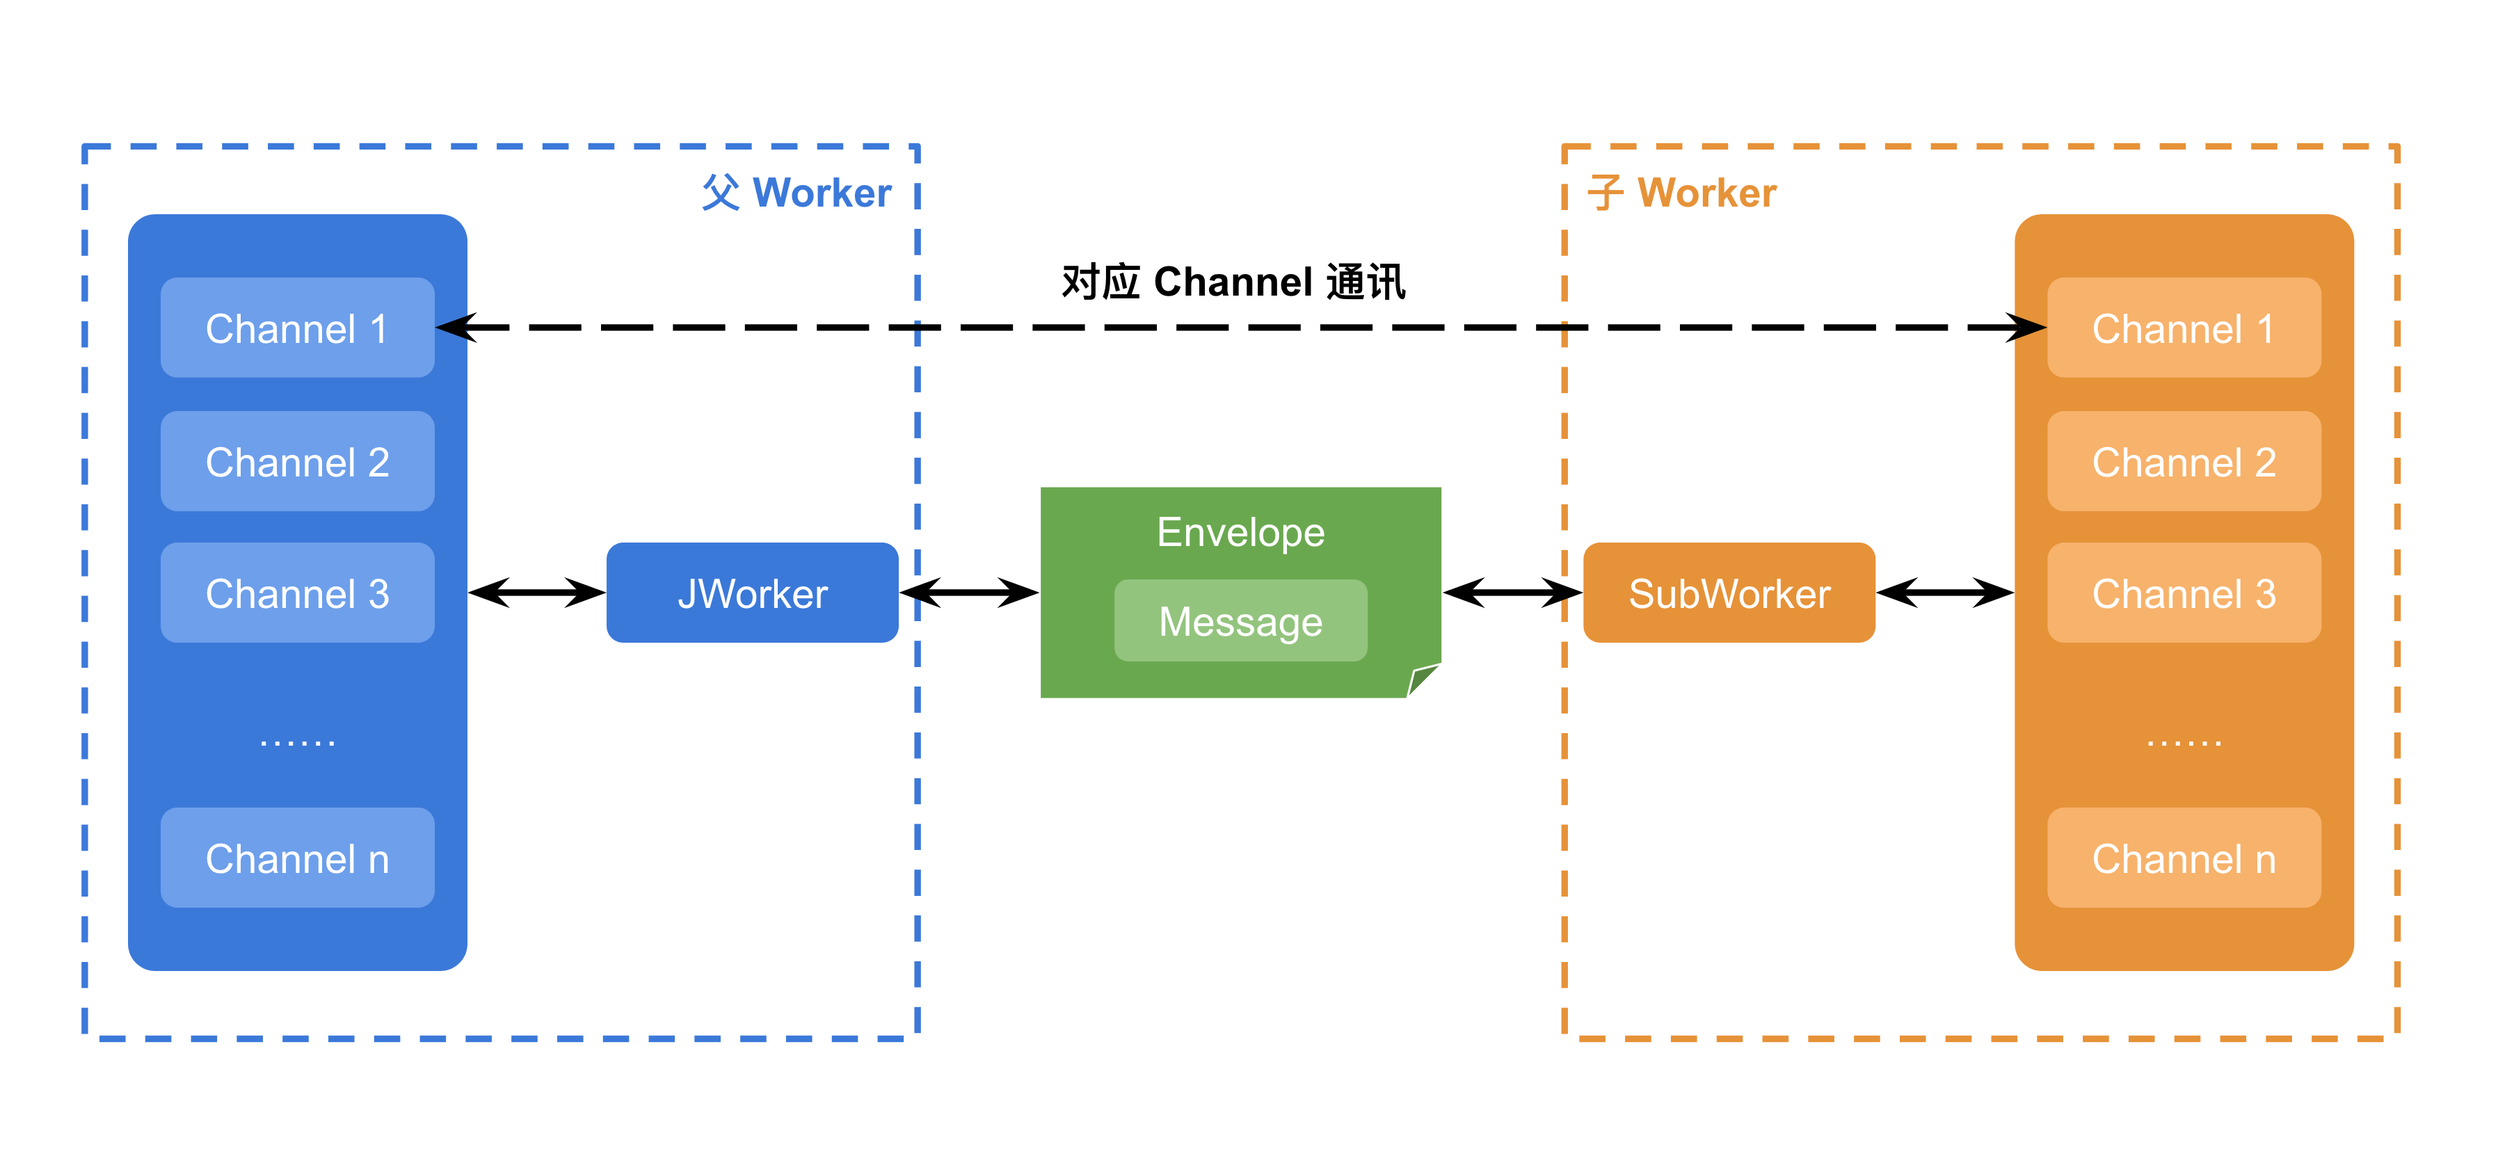
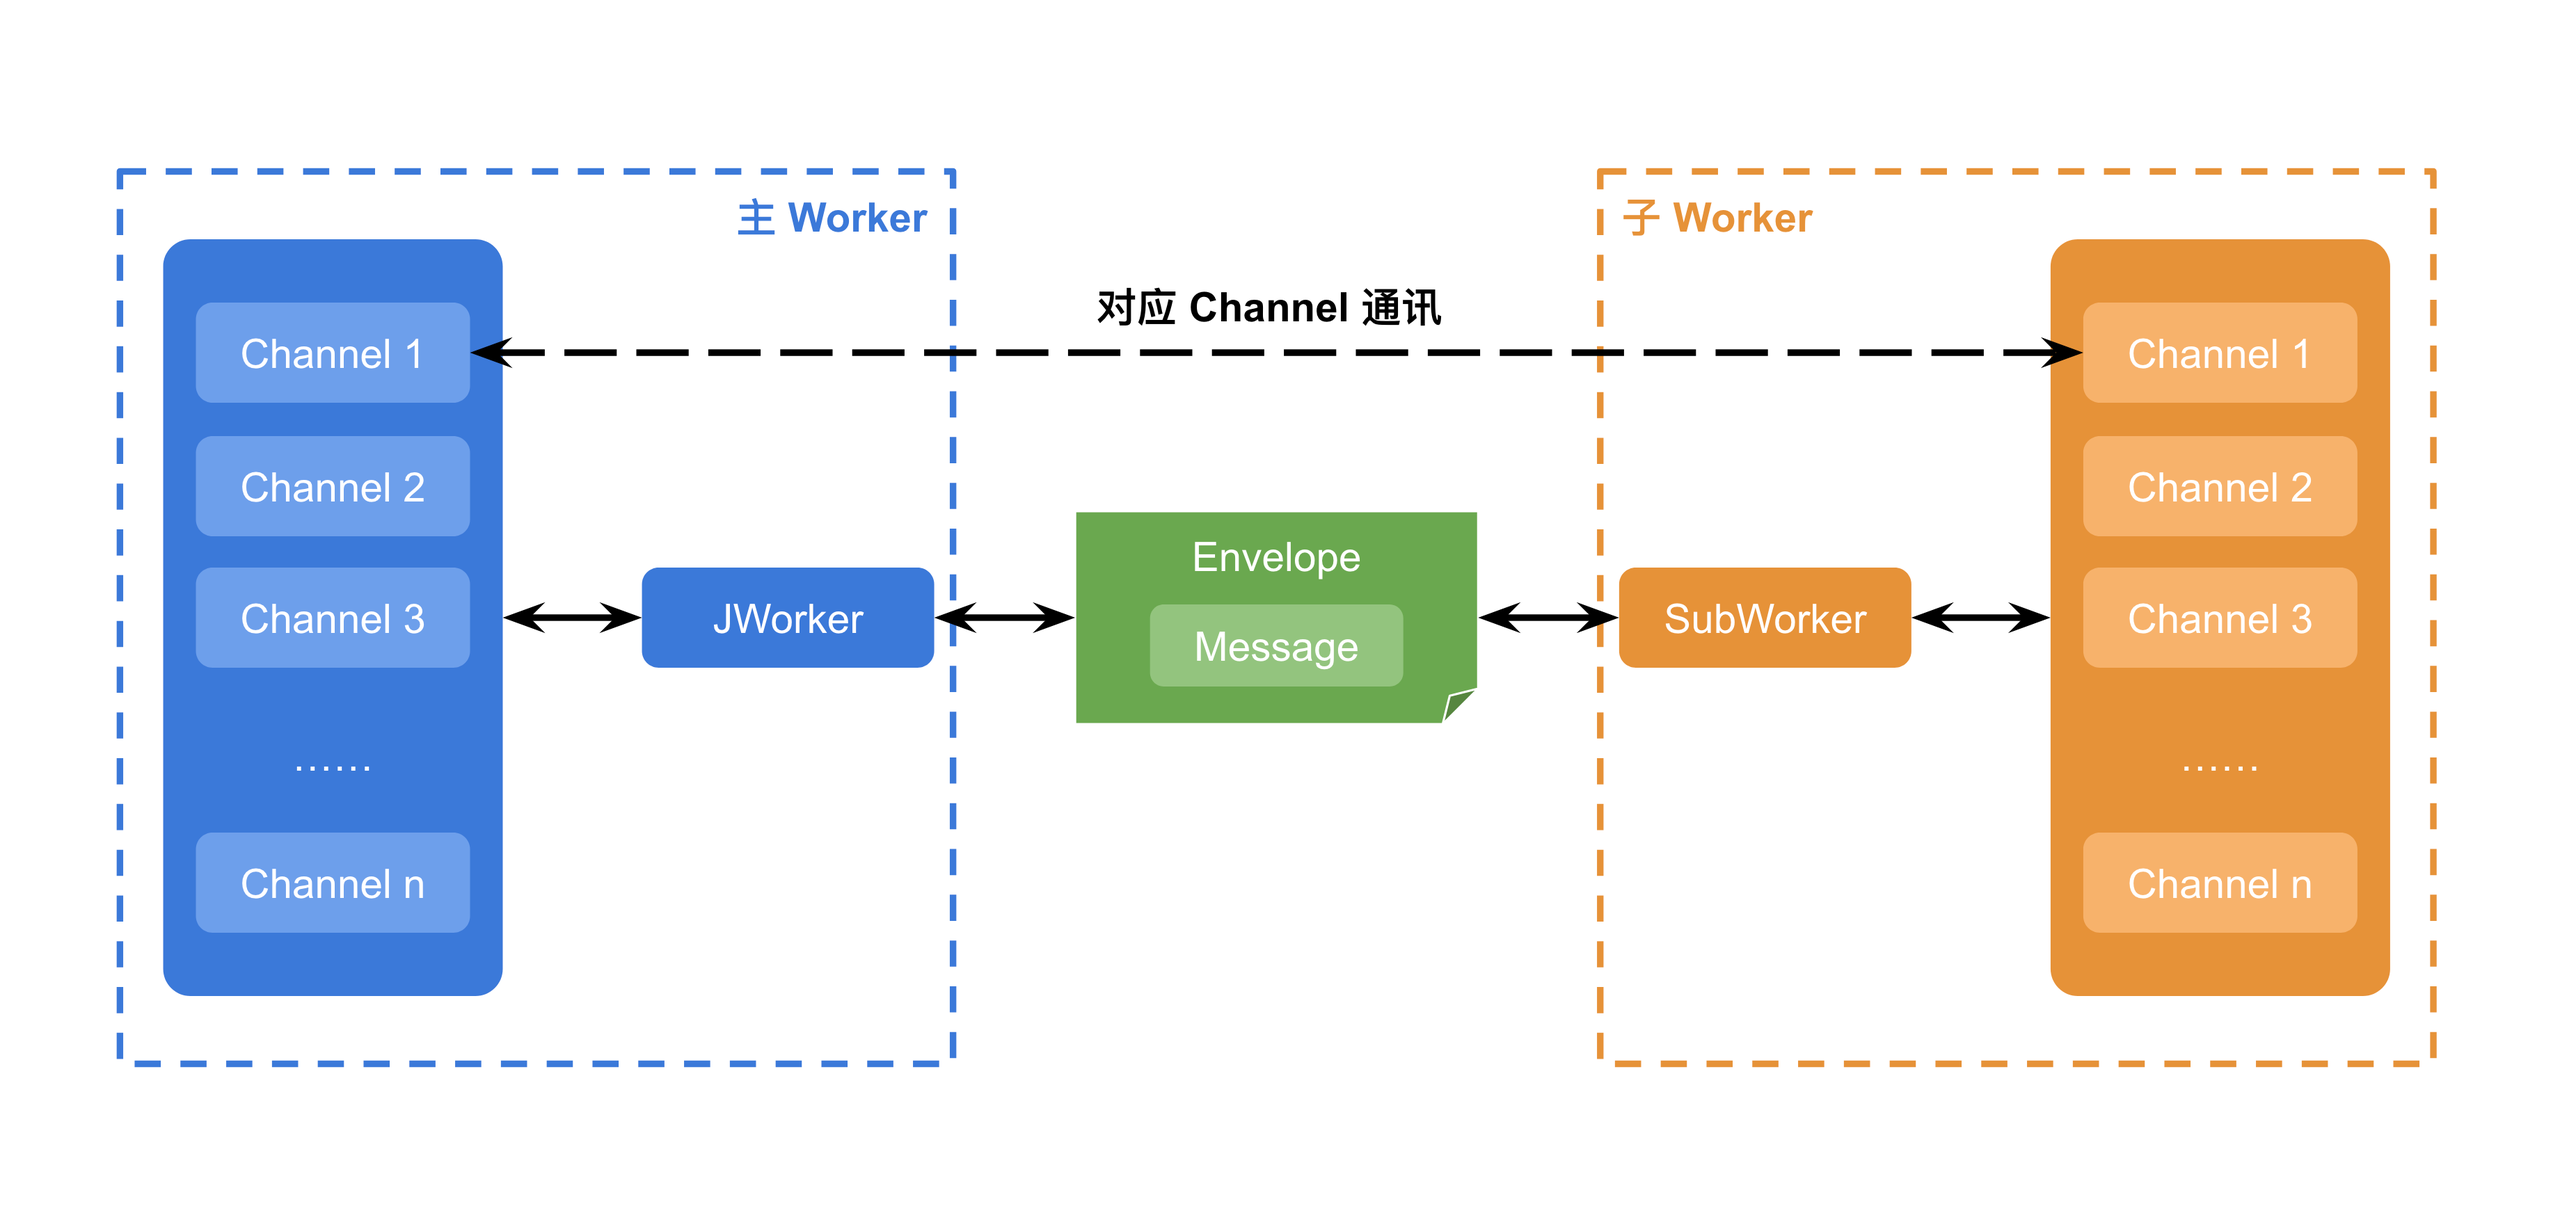
feat: 完善 README.md

Changed region(s): [[0.031, 0.1244, 0.9607, 0.9019], [0.3409, 0.5909, 0.3719, 0.6842], [0.5578, 0.5598, 0.5888, 0.5909]]

diff --git a/README.md b/README.md
@@ -1,10 +1,10 @@
 # JWorker
 
-**JWorker 是一套基于 Worker 的双向 RPC 通讯机制。**
+**JWorker 是一套简单易用的基于鸿蒙 Worker 的双向 RPC 通讯机制。**
 
 ![](https://github.com/zincPower/JWorker/blob/main/img/structure.png)
 
-传统的 Worker 通讯无法进行异步等待，导致逻辑割裂。JWorker 让双向通讯都支持异步等待——主 Worker 可以等待子 Worker 的执行结果，子 Worker 也可以等待主 Worker 的响应，**让跨线程调用像本地函数一样流畅紧凑**。
+传统的 Worker 通讯基于事件监听和消息传递，缺乏原生的 `Promise/async-await` 支持，导致逻辑割裂。**JWorker 通过双向 RPC 机制，让主 Worker 可以 await 子 Worker 的执行结果，子 Worker 也可以 await 主 Worker 的响应，将跨 Worker 通讯简化为像调用本地异步函数，消除回调嵌套，保持代码线性流畅。**
 
 ## 一、集成
 
